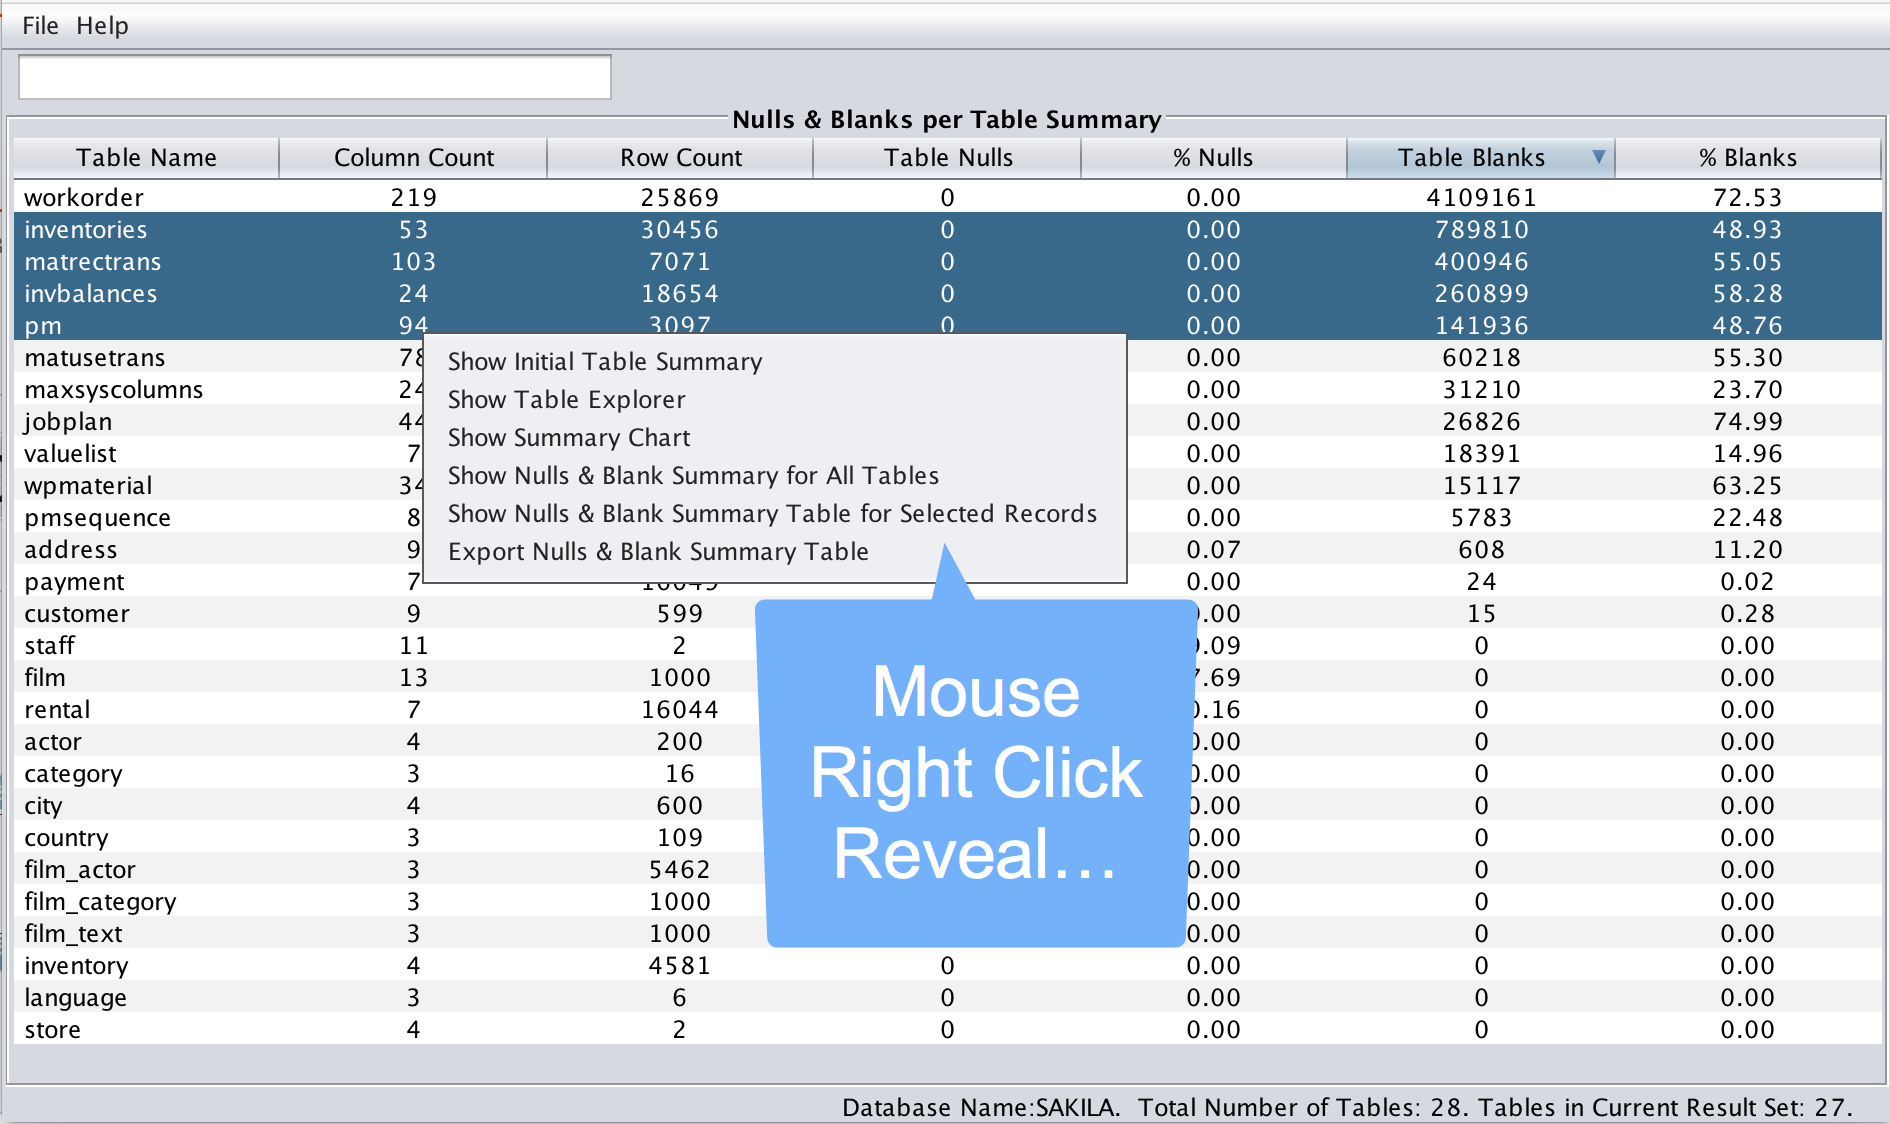
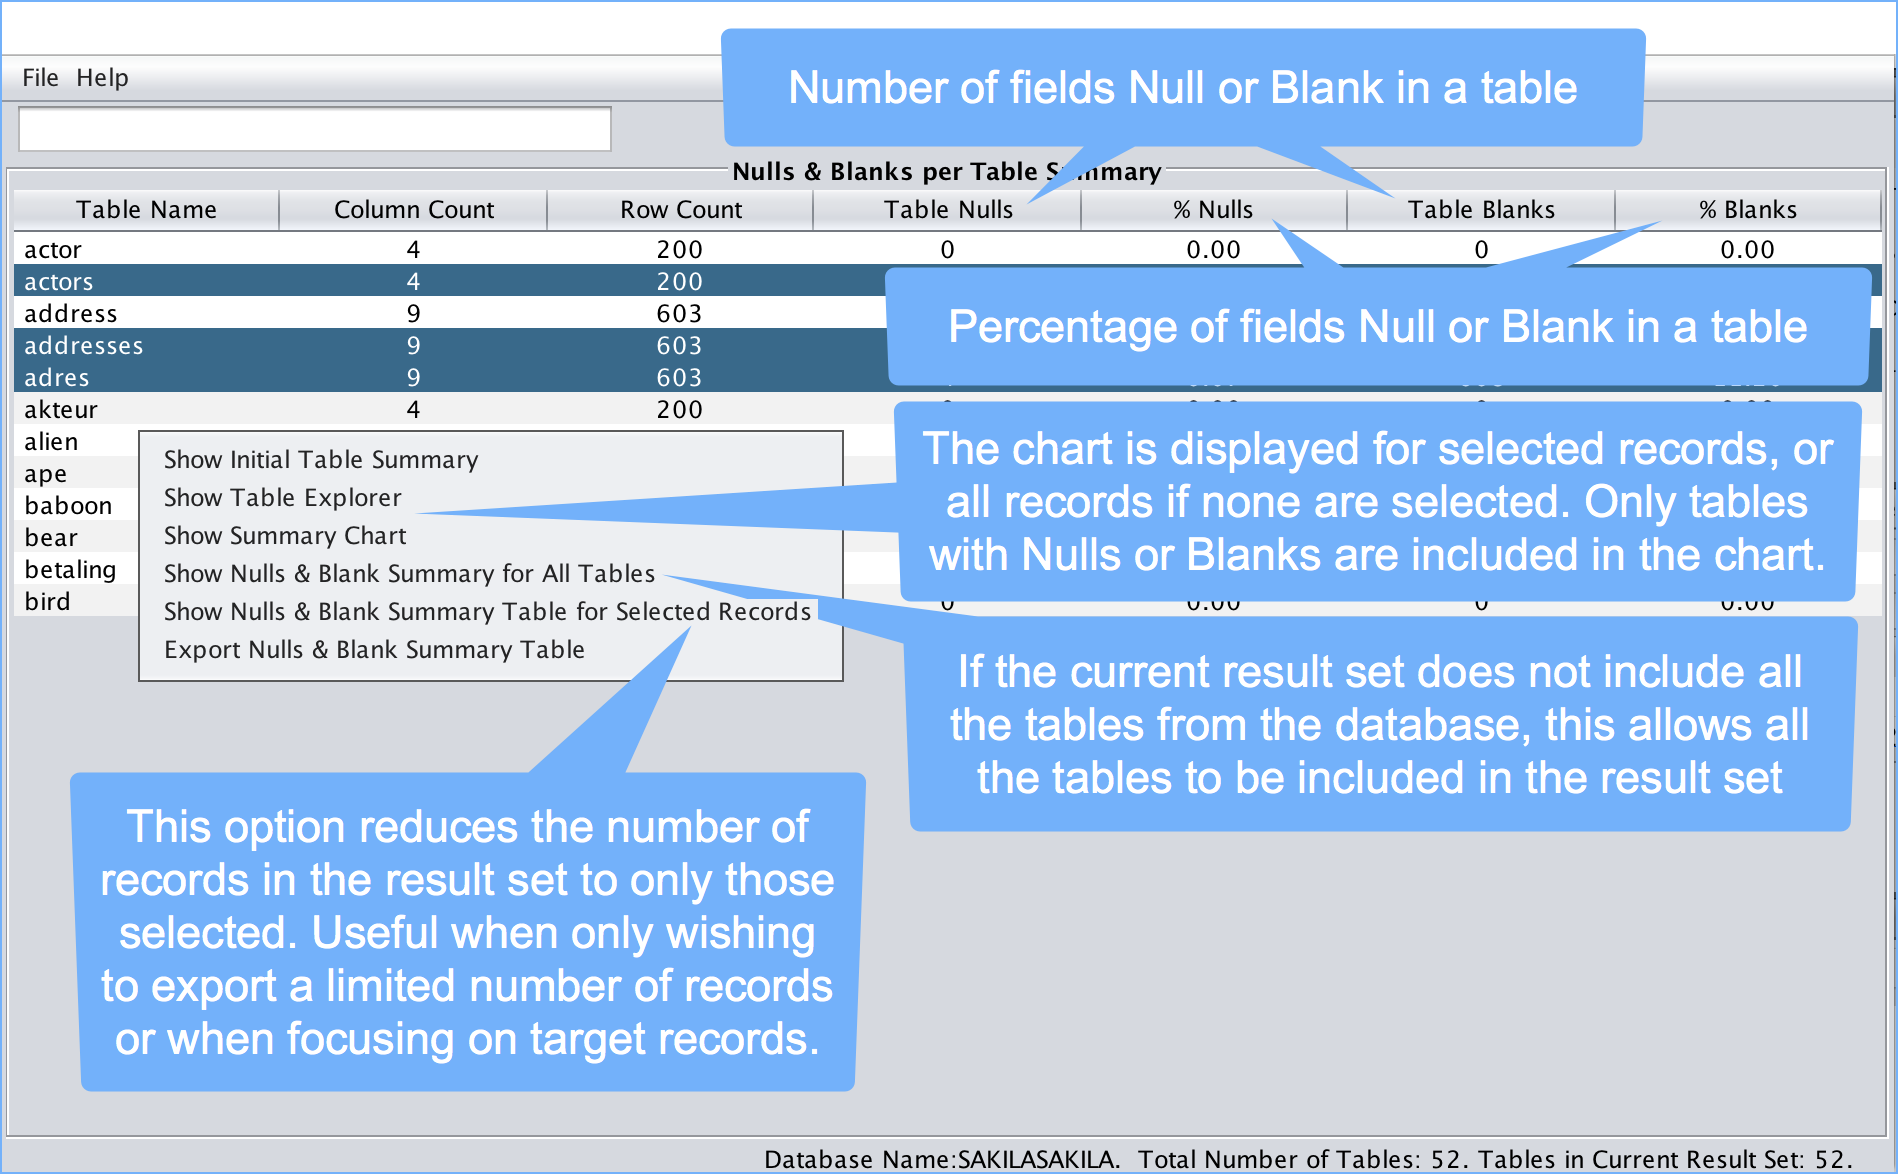
22:46 On Monday. HEAD problems. had to restart from earlier today

diff --git a/src/mynullssqlB/MySQLNullsApp.java b/src/mynullssqlB/MySQLNullsApp.java
@@ -1102,6 +1102,7 @@ public class MySQLNullsApp extends javax.swing.JFrame {
         if (!f.exists()) {
             prepareHelpDialog("initialMainSummary.txt", "IS1.png");
         }
+        db.setNumberOfTableToTotalNumberofTable();
 
     }//GEN-LAST:event_showInitialSummaryTblActionPerformed
 
@@ -2181,14 +2182,17 @@ public class MySQLNullsApp extends javax.swing.JFrame {
                 summaryTable.setModel(summaryNullsBlankTableModel);
 
                 summaryTableTitle = "Nulls & Blanks per Table Summary";
+                summaryTableStatusBar.setText("Database Name:" + db.getDatabaseName() + ".  Total Number of Tables: " + db.getTotalNumberOfTables() + ". Tables in Current Result Set: " + summaryTable.getRowCount() + ".     ");
                 summaryTable.getColumnModel().getColumn(1).setCellRenderer(centerRenderer);
                 summaryTable.getColumnModel().getColumn(2).setCellRenderer(centerRenderer);
                 summaryTable.getColumnModel().getColumn(3).setCellRenderer(centerRenderer);
                 summaryTable.getColumnModel().getColumn(4).setCellRenderer(centerRenderer);
                 summaryTable.getColumnModel().getColumn(5).setCellRenderer(centerRenderer);
                 summaryTable.getColumnModel().getColumn(6).setCellRenderer(centerRenderer);
-
                 setTableRowSorter(summaryTable);
+                
+                
+                
 
 //                detailAnalysisTable.setVisible(true);
             }

diff --git a/src/mynullssqlB/DBConnectDialog.java b/src/mynullssqlB/DBConnectDialog.java
@@ -79,7 +79,8 @@ public class DBConnectDialog extends javax.swing.JDialog {
         databaseNameJLabel.setHorizontalTextPosition(javax.swing.SwingConstants.RIGHT);
         databaseNameJLabel.setPreferredSize(new java.awt.Dimension(72, 16));
 
-        databaseNameJTextField.setText("newtestdb");
+        databaseNameJTextField.setText("sakilaSakila");
+        databaseNameJTextField.setToolTipText("");
         databaseNameJTextField.addActionListener(new java.awt.event.ActionListener() {
             public void actionPerformed(java.awt.event.ActionEvent evt) {
                 databaseNameJTextFieldActionPerformed(evt);

diff --git a/src/mynullssqlB/MainHelpDialog.java b/src/mynullssqlB/MainHelpDialog.java
@@ -76,6 +76,7 @@ public class MainHelpDialog extends javax.swing.JDialog {
         filler6 = new javax.swing.Box.Filler(new java.awt.Dimension(5, 0), new java.awt.Dimension(5, 0), new java.awt.Dimension(5, 32767));
         filler7 = new javax.swing.Box.Filler(new java.awt.Dimension(0, 5), new java.awt.Dimension(0, 5), new java.awt.Dimension(32767, 5));
 
+        setDefaultCloseOperation(javax.swing.WindowConstants.DO_NOTHING_ON_CLOSE);
         setBounds(new java.awt.Rectangle(300, 100, 0, 0));
         setName("JFrame4"); // NOI18N
         addWindowListener(new java.awt.event.WindowAdapter() {
